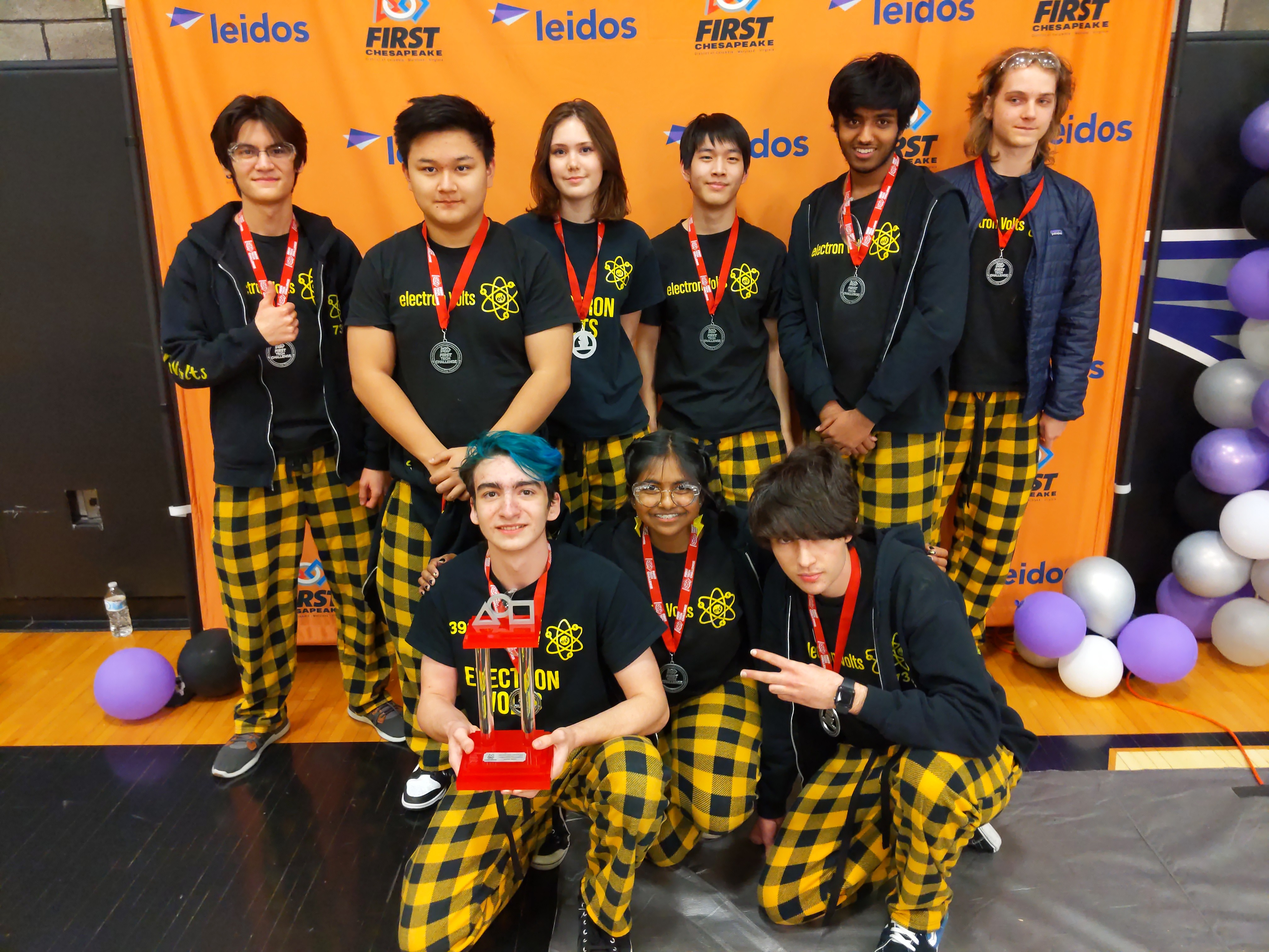
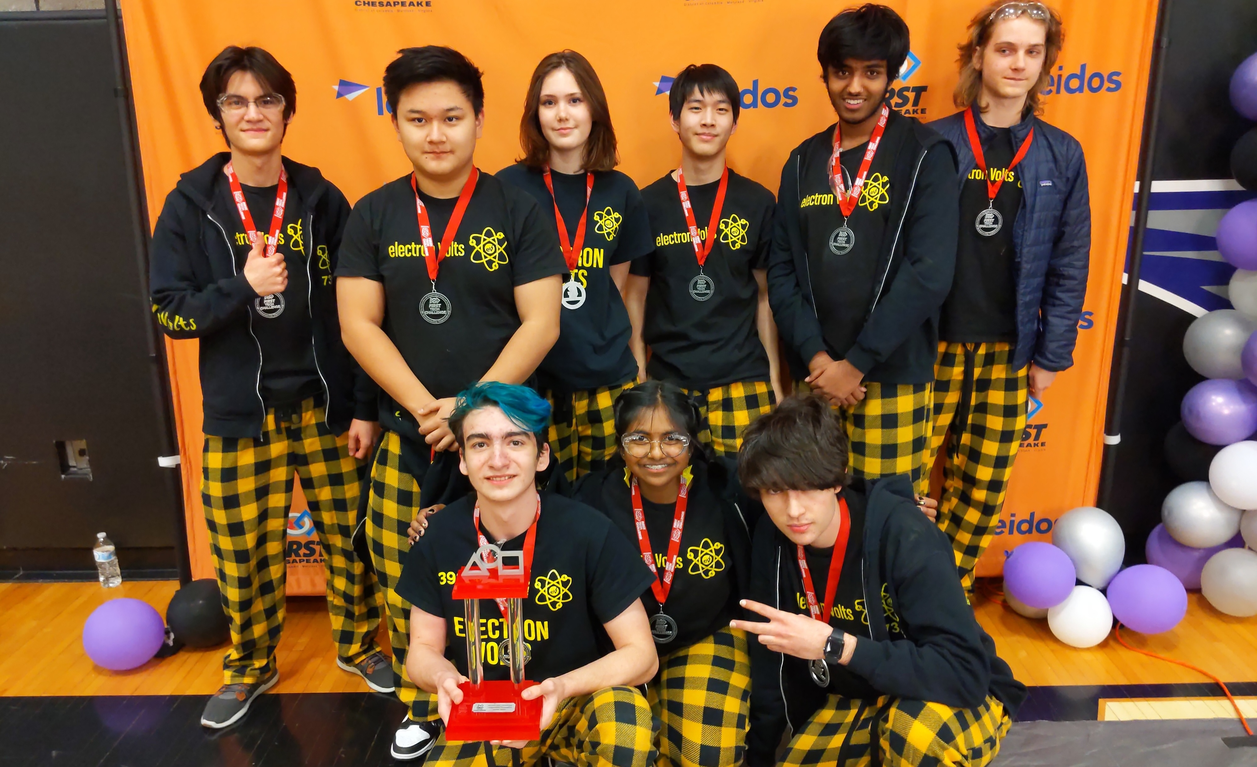
add new team image

diff --git a/app/page.tsx b/app/page.tsx
@@ -17,8 +17,13 @@ const Index = () => {
       <h1 className="text-7xl md:text-9xl font-bold text-center">
         ELECTRON VOLTS
       </h1>
-      <div className="relative w-[36rem] aspect-video">
-        <Image src="/team.jpg" alt="worlds team" fill />
+      <div className="relative max-w-[36rem] w-[36rem] aspect-video">
+        <Image
+          src="/team.jpg"
+          alt="worlds team"
+          style={{ objectFit: "contain" }}
+          fill
+        />
       </div>
       <p className="w-[36rem] font-body">
         Electron Volts is a community team located in Silver Spring, MD composed
